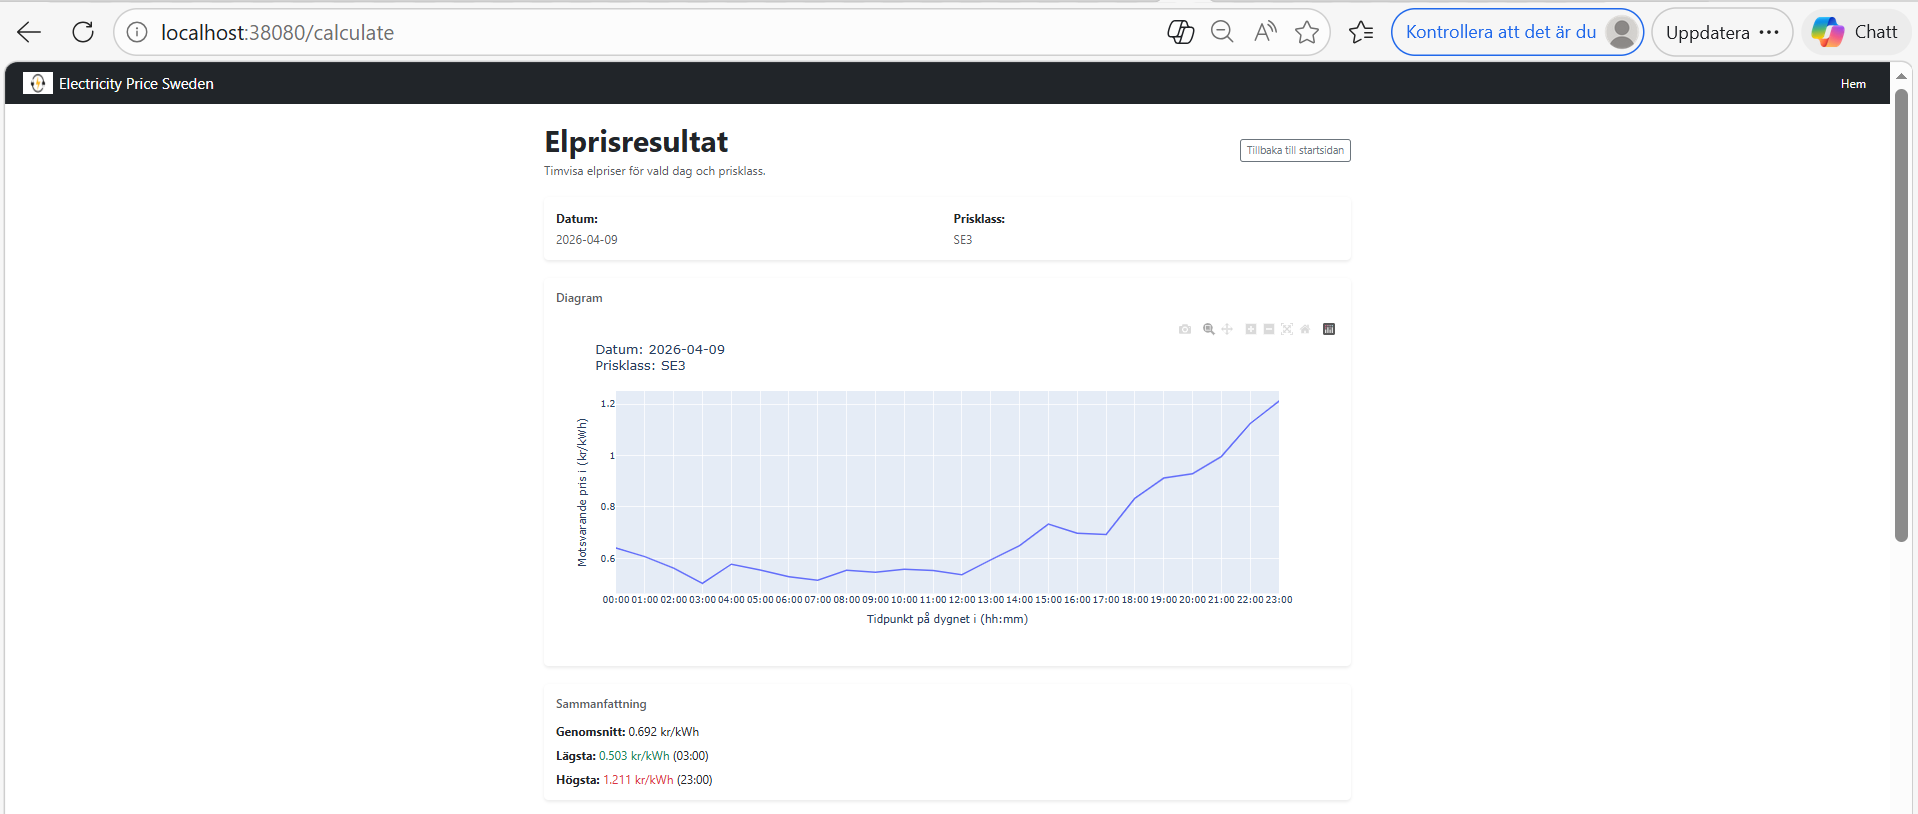
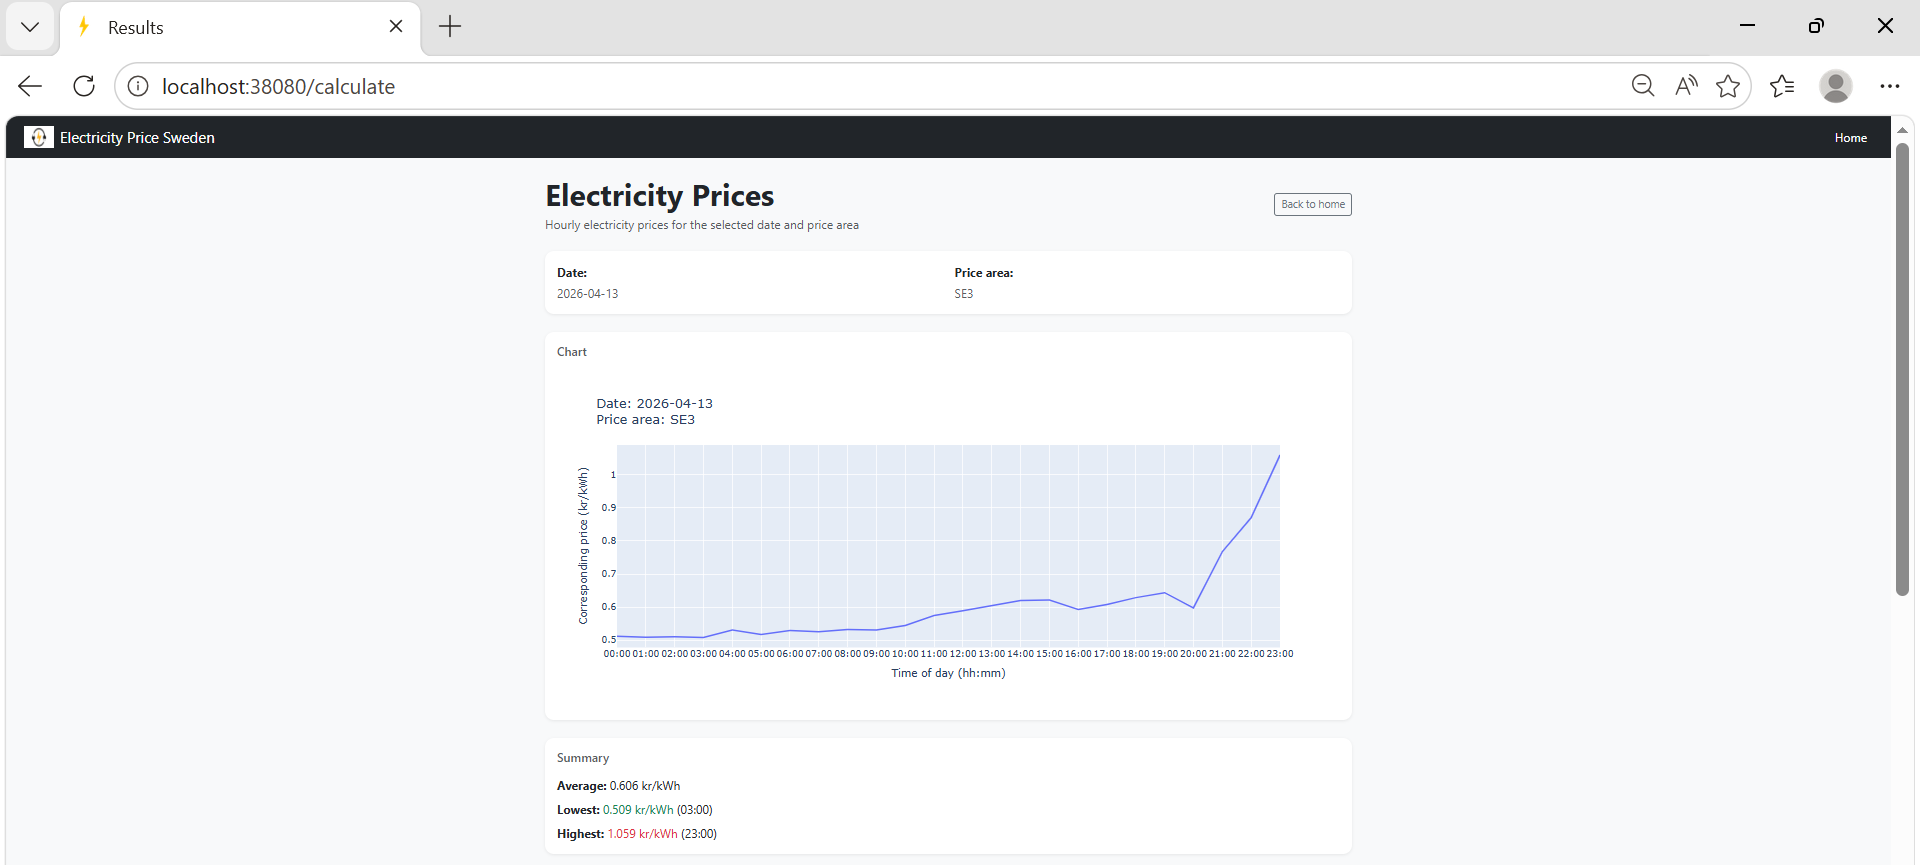
docs: refresh release screenshots, update English-first readmes and prepare compose for v1.2.0 (#154)

diff --git a/README.sv.md b/README.sv.md
@@ -18,6 +18,8 @@
 
 # Electricity Price Sweden — Application Repository
 
+Ett DevOps-fokuserat projekt som demonstrerar ett komplett leveransflöde, inklusive CI/CD, GitOps, kontinuerliga säkerhetskontroller, observability, policy enforcement och kontrollerad miljö-promotion, baserat på en egenutvecklad applikation.
+
 ## Översikt
 
 ### Det här repositoryt ansvarar för

diff --git a/README.md b/README.md
@@ -18,6 +18,8 @@
 
 # Electricity Price Sweden — Application Repository
 
+A DevOps-focused project demonstrating a complete delivery workflow, including CI/CD, GitOps, integrated security practices, observability, policy enforcement and controlled environment promotion, built around a self-developed application.
+
 ## Overview
 
 ### This repository is responsible for
